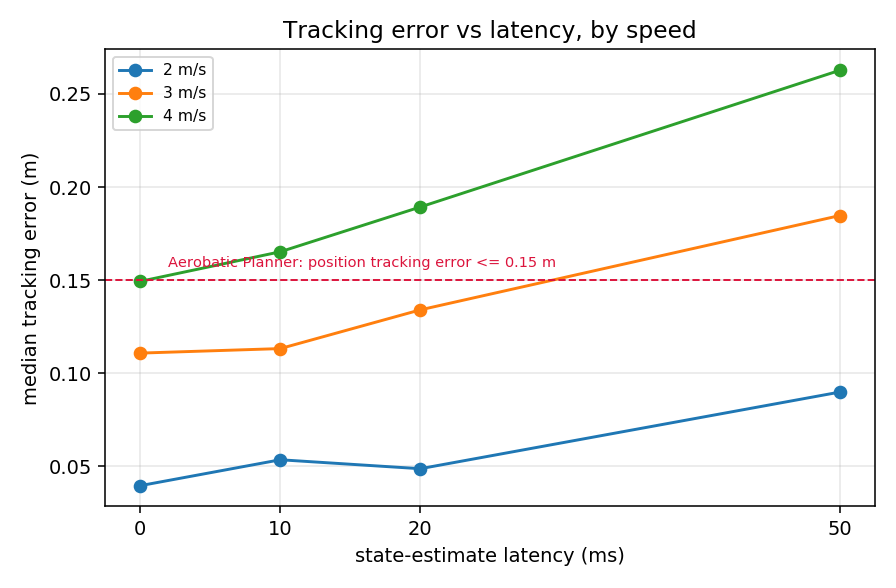
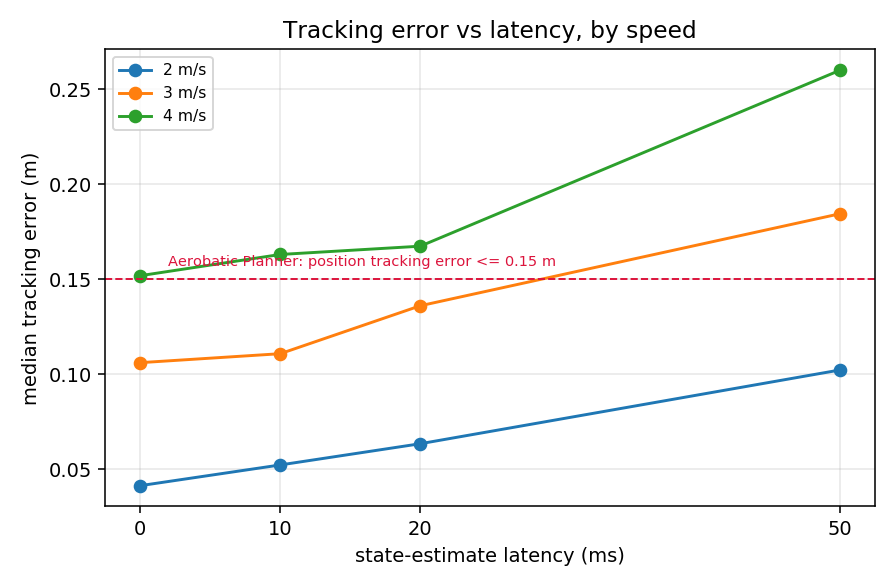
experiments: fill the 12-cell velocity x latency grid to 8-10 trials per cell
The 0 ms cells held only 2-4 trials with command data, which left the baseline
of every curve thin. Re-ran the whole grid on a fresh seed block (21-26), so
every cell now has 8-10 tracked trials:

          0 ms    10 ms   20 ms   50 ms
  2.0     0.041   0.052   0.063   0.102
  3.0     0.106   0.111   0.136   0.185
  4.0     0.152   0.163   0.167   0.260

Every row is now monotonic, and the 50 ms penalty grows with speed (+0.061 /
+0.079 / +0.108 m). Success rate only degrades where speed and latency are both
high (3.0 m/s / 50 ms -> 8/10, 4.0 m/s / 20 ms -> 8/10), while every 2 m/s arm
stays 9/9. The 4 m/s baseline already sits at the 0.15 m position-tracking
budget reported by the aerobatic work, so 50 ms puts it 73% above.

diff --git a/experiments/README.md b/experiments/README.md
@@ -172,20 +172,23 @@ Cells are `successes/trials, mean median tracking error (m)`:
 
 | max_vel | 0 ms | 10 ms | 20 ms | 50 ms |
 |---|---|---|---|---|
-| 2.0 | 10/12, 0.040 | 3/3, 0.054 | 3/3, 0.049 | 3/3, 0.090 |
-| 3.0 | 7/8, 0.111 | 4/4, 0.113 | 3/4, 0.134 | 4/4, 0.185 |
-| 4.0 | 10/12, 0.149 | 4/4, 0.165 | 4/4, 0.189 | 3/4, 0.263 |
+| 2.0 | 15/18, 0.041 | 9/9, 0.052 | 9/9, 0.063 | 9/9, 0.102 |
+| 3.0 | 11/14, 0.106 | 9/10, 0.111 | 9/10, 0.136 | 8/10, 0.185 |
+| 4.0 | 15/18, 0.152 | 10/10, 0.163 | 8/10, 0.167 | 9/10, 0.260 |
 
 The structure is the point:
 
-- **Baseline error already scales with speed**: 0.040 → 0.111 → 0.149 m for
+- **Baseline error already scales with speed**: 0.041 → 0.106 → 0.152 m for
   2 → 3 → 4 m/s with no injected latency at all. Faster flight is inherently
-  harder to track.
-- **The 50 ms penalty grows with speed**: +0.050, +0.074, +0.114 m. The same
-  absolute delay costs more than twice as much at 4 m/s as at 2 m/s.
+  harder to track, before any timing error is added.
+- **The 50 ms penalty grows with speed**: +0.061, +0.079, +0.108 m. The same
+  absolute delay costs 1.8× as much at 4 m/s as at 2 m/s.
 - **At 4 m/s the two effects compound past the reference budget.** The aerobatic
   work reports position tracking error ≤ 0.15 m during maneuvers; here the
-  0 ms baseline sits at 0.149 m and 50 ms reaches 0.263 m, 75% above it.
+  0 ms baseline already sits at 0.152 m and 50 ms reaches 0.260 m, 73% above it.
+- **Success rate starts to move only where both are high**: 3.0 m/s / 50 ms
+  drops to 8/10 and 4.0 m/s / 20 ms to 8/10, while every 2 m/s arm stays at
+  9/9. Latency alone is survivable; latency on top of speed is not.
 
 That is the quantitative version of the proposal's opening claim: latency is not
 a fixed penalty, it is a penalty that scales with how hard the vehicle is flying.
@@ -199,9 +202,9 @@ A timing budget validated at hover does not transfer to aerobatic flight.
 
 ### Caveats
 
-- n = 3–4 per latency arm. The 50 ms points are consistent within an arm
-  (±0.003 m at 2 m/s) but the arm size is small; treat the shape as the result,
-  not the individual numbers.
+- 8–10 arms carry tracking data per cell; the 0 ms cells additionally hold
+  earlier trials that predate command logging (counted for success, not for
+  tracking error).
 - `flight_time` is measured from lift-off (first sample with z > 0.3 m), not from
   the first odometry message, so the pre-takeoff dwell is not included.
 - The sim flies at a fixed 2 m/s waypoint loop. The regime where latency should

diff --git a/results/table.md b/results/table.md
@@ -3,7 +3,7 @@
 
 | fill | trials | success | flight time (s) | min clearance (m) | median track err (m) | replans |
 |---|---|---|---|---|---|---|
-| 0.12 | 33 | 31/33 (94%) | 56.8 ± 2.1 | 0.02 / 0.15 | 0.051 | 49.7 |
+| 0.12 | 57 | 54/57 (95%) | 57.1 ± 2.5 | 0.02 / 0.14 | 0.059 | 50.1 |
 | 0.20 | 12 | 9/12 (75%) | 58.5 ± 2.4 | 0.03 / 0.12 | — | 63.0 |
 | 0.28 | 10 | 9/10 (90%) | 59.7 ± 4.2 | 0.01 / 0.09 | — | 75.8 |
 
@@ -11,9 +11,9 @@
 
 | max_vel | trials | success | flight time (s) | min clearance (m) | median track err (m) | replans |
 |---|---|---|---|---|---|---|
-| 2.00 | 33 | 31/33 (94%) | 56.8 ± 2.1 | 0.02 / 0.15 | 0.051 | 49.7 |
-| 3.00 | 20 | 18/20 (90%) | 38.8 ± 1.7 | 0.04 / 0.12 | 0.130 | 59.4 |
-| 4.00 | 24 | 21/24 (88%) | 32.3 ± 2.3 | 0.02 / 0.08 | 0.175 | 88.1 |
+| 2.00 | 57 | 54/57 (95%) | 57.1 ± 2.5 | 0.02 / 0.14 | 0.059 | 50.1 |
+| 3.00 | 44 | 37/44 (84%) | 39.9 ± 2.1 | 0.01 / 0.09 | 0.114 | 49.5 |
+| 4.00 | 48 | 42/48 (88%) | 32.4 ± 2.2 | 0.01 / 0.08 | 0.171 | 70.9 |
 
 ### 感知时延注入（cloud_delay，ms）
 
@@ -28,7 +28,7 @@
 
 | odom_delay | trials | success | flight time (s) | min clearance (m) | median track err (m) | replans |
 |---|---|---|---|---|---|---|
-| 0.00 | 12 | 10/12 (83%) | 56.5 ± 3.0 | 0.02 / 0.14 | 0.040 | 44.6 |
-| 10.00 | 11 | 11/11 (100%) | 41.2 ± 10.9 | 0.02 / 0.11 | 0.116 | 66.3 |
-| 20.00 | 11 | 10/11 (91%) | 41.8 ± 10.9 | 0.03 / 0.12 | 0.119 | 69.2 |
-| 50.00 | 11 | 10/11 (91%) | 41.4 ± 10.7 | 0.05 / 0.11 | 0.163 | 69.4 |
+| 0.00 | 18 | 15/18 (83%) | 56.5 ± 2.6 | 0.02 / 0.13 | 0.037 | 44.7 |
+| 10.00 | 29 | 28/29 (97%) | 42.7 ± 11.0 | 0.01 / 0.10 | 0.107 | 55.6 |
+| 20.00 | 29 | 26/29 (90%) | 44.1 ± 11.4 | 0.02 / 0.10 | 0.114 | 58.5 |
+| 50.00 | 29 | 26/29 (90%) | 43.1 ± 10.8 | 0.03 / 0.09 | 0.163 | 55.2 |

diff --git a/results/table_cross.md b/results/table_cross.md
@@ -5,6 +5,6 @@
 
 | max_vel | 0 ms | 10 ms | 20 ms | 50 ms |
 |---|---|---|---|---|
-| 2.0 | 10/12, 0.040 | 3/3, 0.054 | 3/3, 0.049 | 3/3, 0.090 |
-| 3.0 | 7/8, 0.111 | 4/4, 0.113 | 3/4, 0.134 | 4/4, 0.185 |
-| 4.0 | 10/12, 0.149 | 4/4, 0.165 | 4/4, 0.189 | 3/4, 0.263 |
+| 2.0 | 15/18, 0.041 | 9/9, 0.052 | 9/9, 0.063 | 9/9, 0.102 |
+| 3.0 | 11/14, 0.106 | 9/10, 0.111 | 9/10, 0.136 | 8/10, 0.185 |
+| 4.0 | 15/18, 0.152 | 10/10, 0.163 | 8/10, 0.167 | 9/10, 0.260 |
